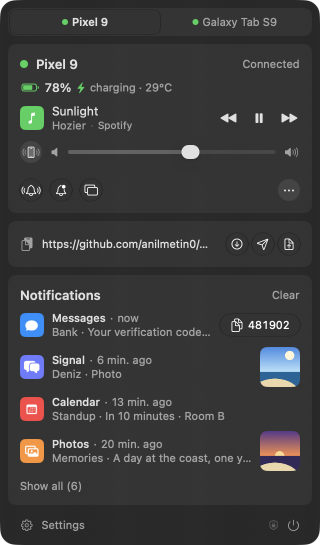
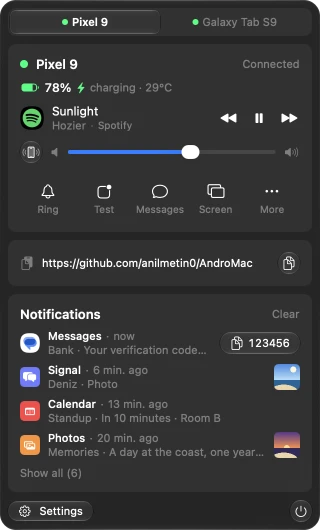
Show the current menu bar panel in the hero and the share image

diff --git a/tr/index.html b/tr/index.html
@@ -14,7 +14,7 @@
   <meta property="og:title" content="AndroMac: Android bildirimleri, SMS ve dosyalar Mac'te">
   <meta property="og:description" content="Android telefonunun bildirimleri, SMS'leri, panosu, dosyaları, aramaları ve ekranı Wi-Fi üzerinden Mac'inde. Ücretsiz ve açık kaynak.">
   <meta property="og:url" content="https://anilmetin0.github.io/AndroMac/tr/">
-  <meta property="og:image" content="https://anilmetin0.github.io/AndroMac/images/og.png?v=2">
+  <meta property="og:image" content="https://anilmetin0.github.io/AndroMac/images/og.png?v=3">
   <meta property="og:image:width" content="1200">
   <meta property="og:image:height" content="630">
   <meta property="og:image:alt" content="Mac'te AndroMac menü çubuğu paneli, yanında telefondaki AndroMac uygulaması.">
@@ -27,12 +27,12 @@
   <link rel="icon" href="../images/icon.png" sizes="256x256" type="image/png">
   <link rel="apple-touch-icon" href="../images/apple-touch-icon.png">
   <link rel="preload" href="../fonts/schibsted-latin.woff2" as="font" type="font/woff2" crossorigin>
-  <link rel="preload" href="../images/macos-panel-640.webp?v=3" as="image" type="image/webp" imagesrcset="../images/macos-panel-320.webp?v=3 320w, ../images/macos-panel-640.webp?v=3 640w" imagesizes="(max-width: 600px) 46vw, 320px" fetchpriority="high">
+  <link rel="preload" href="../images/macos-panel-640.webp?v=4" as="image" type="image/webp" imagesrcset="../images/macos-panel-320.webp?v=4 320w, ../images/macos-panel-640.webp?v=4 640w" imagesizes="(max-width: 600px) 46vw, 320px" fetchpriority="high">
   <link rel="stylesheet" href="../site.css">
   <script>try{const t=localStorage.getItem("theme");document.documentElement.dataset.theme=t==="dark"||t==="light"?t:matchMedia("(prefers-color-scheme: dark)").matches?"dark":"light"}catch{}</script>
   <script>if("IntersectionObserver"in window&&!matchMedia("(prefers-reduced-motion: reduce)").matches){const r=document.documentElement;r.classList.add("rv");addEventListener("load",()=>{if(!r.dataset.revealReady)r.classList.remove("rv")})}</script>
   <script src="../site.js" defer></script>
-  <script type="application/ld+json">{"@context": "https://schema.org", "@type": "SoftwareApplication", "name": "AndroMac", "url": "https://anilmetin0.github.io/AndroMac/tr/", "description": "Android bildirimlerini, SMS'leri, panoyu, dosyaları, aramaları ve ekranı Wi-Fi üzerinden Mac'e getiren ücretsiz, açık kaynak uygulama. Hesap ve bulut yok.", "applicationCategory": "UtilitiesApplication", "operatingSystem": "macOS 14 or later, Android 10 or later", "softwareVersion": "1.6.0", "license": "https://opensource.org/licenses/MIT", "isAccessibleForFree": true, "offers": {"@type": "Offer", "price": "0", "priceCurrency": "USD"}, "downloadUrl": "https://github.com/anilmetin0/AndroMac/releases/latest", "codeRepository": "https://github.com/anilmetin0/AndroMac", "inLanguage": "tr", "image": "https://anilmetin0.github.io/AndroMac/images/og.png?v=2", "author": {"@type": "Person", "name": "anilmetin0", "url": "https://github.com/anilmetin0"}}</script>
+  <script type="application/ld+json">{"@context": "https://schema.org", "@type": "SoftwareApplication", "name": "AndroMac", "url": "https://anilmetin0.github.io/AndroMac/tr/", "description": "Android bildirimlerini, SMS'leri, panoyu, dosyaları, aramaları ve ekranı Wi-Fi üzerinden Mac'e getiren ücretsiz, açık kaynak uygulama. Hesap ve bulut yok.", "applicationCategory": "UtilitiesApplication", "operatingSystem": "macOS 14 or later, Android 10 or later", "softwareVersion": "1.6.0", "license": "https://opensource.org/licenses/MIT", "isAccessibleForFree": true, "offers": {"@type": "Offer", "price": "0", "priceCurrency": "USD"}, "downloadUrl": "https://github.com/anilmetin0/AndroMac/releases/latest", "codeRepository": "https://github.com/anilmetin0/AndroMac", "inLanguage": "tr", "image": "https://anilmetin0.github.io/AndroMac/images/og.png?v=3", "author": {"@type": "Person", "name": "anilmetin0", "url": "https://github.com/anilmetin0"}}</script>
   <script type="application/ld+json">{"@context": "https://schema.org", "@type": "FAQPage", "inLanguage": "tr", "mainEntity": [{"@type": "Question", "name": "AndroMac ücretsiz mi?", "acceptedAnswer": {"@type": "Answer", "text": "Evet. İki uygulama da MIT lisansıyla ücretsiz ve açık kaynak; hesap, reklam ya da bulut hizmeti yok. Telefon ile Mac, Wi-Fi ağında doğrudan birbirleriyle konuşur."}}, {"@type": "Question", "name": "Nasıl kurarım?", "acceptedAnswer": {"@type": "Answer", "text": "Mac'te dört Homebrew satırını Terminal'e yapıştır. Homebrew yoksa DMG'yi aç, AndroMac'i Uygulamalar klasörüne sürükle ve xattr satırını çalıştır. Telefonda APK'yı indir, Android sorarsa tarayıcıya kurulum izni ver. Sonra iki cihazda da AndroMac'i açıp eşleştir."}}, {"@type": "Question", "name": "macOS, AndroMac hasarlı ya da açılamıyor diyor", "acceptedAnswer": {"@type": "Answer", "text": "Uygulama kendi sertifikasıyla imzalı ama Apple'ın noter onayından geçmedi, bu yüzden macOS ilk açılışı engeller. Terminal'de bir kez şunu çalıştır: xattr -dr com.apple.quarantine /Applications/AndroMac.app Ya da uygulamayı açmayı dene, macOS engelledikten sonra Sistem Ayarları → Gizlilik ve Güvenlik'te Yine de Aç'a bas."}}, {"@type": "Question", "name": "Güncellemeler nasıl geliyor?", "acceptedAnswer": {"@type": "Answer", "text": "İki uygulama da günde bir kez yeni sürüm var mı diye bakar ve bulursa kurabilir. İki tarafta da Ayarlar → Güncellemeler'de denetimi kapatma, otomatik kurulum ve Nightly sürümler seçenekleri var. Mac uygulamasını Homebrew ile kurduysan brew upgrade --cask andromac komutu da yeni sürüme geçirir."}}, {"@type": "Question", "name": "Ekran yansıtma için ne gerekiyor?", "acceptedAnswer": {"@type": "Answer", "text": "Telefonda Kablosuz hata ayıklama açık olmalı. Geliştirici seçeneklerini açmak için Derleme numarasına yedi kez dokun, sonra Kablosuz hata ayıklamayı aç. USB hata ayıklama açıksa USB kablosu da iş görür. İlk seferde Mac panelindeki yansıtma düğmesine bas, telefondaki Cihazı eşleme koduyla eşle ekranında çıkan kodu gir. İşin bitince Kablosuz hata ayıklamayı kapat."}}, {"@type": "Question", "name": "AndroMac'i nasıl kaldırırım?", "acceptedAnswer": {"@type": "Answer", "text": "Mac'te brew uninstall --cask andromac komutunu çalıştır. DMG'den kurduysan uygulamayı Çöp Sepeti'ne sürükle. Telefonda da diğer uygulamalar gibi kaldır."}}]}</script>
 </head>
 <body>
@@ -66,8 +66,8 @@
       </div>
       <div class="stage">
         <picture>
-          <source type="image/webp" srcset="../images/macos-panel-320.webp?v=3 320w, ../images/macos-panel-640.webp?v=3 640w" sizes="(max-width: 600px) 46vw, 320px">
-          <img class="panel" src="../images/macos-panel.png" width="640" height="1090" fetchpriority="high" alt="Mac'te AndroMac menü çubuğu paneli: yüzde 78 dolu ve şarj olan bir Pixel 9, çalan bir şarkı, pano ve kopyalama düğmeli bir doğrulama kodu dahil son telefon bildirimleri.">
+          <source type="image/webp" srcset="../images/macos-panel-320.webp?v=4 320w, ../images/macos-panel-640.webp?v=4 640w" sizes="(max-width: 600px) 46vw, 320px">
+          <img class="panel" src="../images/macos-panel.png" width="640" height="1060" fetchpriority="high" alt="Mac'te AndroMac menü çubuğu paneli: yüzde 78 dolu ve şarj olan bir Pixel 9, çalan bir şarkı, pano ve kopyalama düğmeli bir doğrulama kodu dahil son telefon bildirimleri.">
         </picture>
         <picture>
           <source type="image/webp" srcset="../images/android-home-270.webp?v=3 270w, ../images/android-home-540.webp?v=3 540w, ../images/android-home-1080.webp?v=3 1080w" sizes="(max-width: 600px) 36vw, 250px">
@@ -75,7 +75,7 @@
         </picture>
         <div class="banner" aria-hidden="true">
           <span class="app"><svg viewBox="0 0 24 24" fill="#fff"><path d="M12 4C6.5 4 2 7.6 2 12c0 2.2 1.1 4.2 3 5.6L4 21l4.2-2.1c1.2.4 2.5.6 3.8.6 5.5 0 10-3.6 10-8S17.5 4 12 4z"/></svg></span>
-          <span><span class="meta"><b>Mesajlar</b><span>şimdi</span></span><b>Banka</b><br>Doğrulama kodunuz 481902</span>
+          <span><span class="meta"><b>Mesajlar</b><span>şimdi</span></span><b>Banka</b><br>Doğrulama kodunuz 123456</span>
           <span class="code">Kodu kopyala</span>
         </div>
       </div>

diff --git a/index.html b/index.html
@@ -15,7 +15,7 @@
   <meta property="og:title" content="AndroMac: Android notifications, SMS and files on your Mac">
   <meta property="og:description" content="Notifications, SMS, clipboard, files, calls and screen mirroring from your Android phone, on your Mac over Wi-Fi. Free and open source.">
   <meta property="og:url" content="https://anilmetin0.github.io/AndroMac/">
-  <meta property="og:image" content="https://anilmetin0.github.io/AndroMac/images/og.png?v=2">
+  <meta property="og:image" content="https://anilmetin0.github.io/AndroMac/images/og.png?v=3">
   <meta property="og:image:width" content="1200">
   <meta property="og:image:height" content="630">
   <meta property="og:image:alt" content="The AndroMac menu-bar panel on a Mac next to the AndroMac app on an Android phone.">
@@ -28,12 +28,12 @@
   <link rel="icon" href="images/icon.png" sizes="256x256" type="image/png">
   <link rel="apple-touch-icon" href="images/apple-touch-icon.png">
   <link rel="preload" href="fonts/schibsted-latin.woff2" as="font" type="font/woff2" crossorigin>
-  <link rel="preload" href="images/macos-panel-640.webp?v=3" as="image" type="image/webp" imagesrcset="images/macos-panel-320.webp?v=3 320w, images/macos-panel-640.webp?v=3 640w" imagesizes="(max-width: 600px) 46vw, 320px" fetchpriority="high">
+  <link rel="preload" href="images/macos-panel-640.webp?v=4" as="image" type="image/webp" imagesrcset="images/macos-panel-320.webp?v=4 320w, images/macos-panel-640.webp?v=4 640w" imagesizes="(max-width: 600px) 46vw, 320px" fetchpriority="high">
   <link rel="stylesheet" href="site.css">
   <script>try{const t=localStorage.getItem("theme");document.documentElement.dataset.theme=t==="dark"||t==="light"?t:matchMedia("(prefers-color-scheme: dark)").matches?"dark":"light"}catch{}</script>
   <script>if("IntersectionObserver"in window&&!matchMedia("(prefers-reduced-motion: reduce)").matches){const r=document.documentElement;r.classList.add("rv");addEventListener("load",()=>{if(!r.dataset.revealReady)r.classList.remove("rv")})}</script>
   <script src="site.js" defer></script>
-  <script type="application/ld+json">{"@context": "https://schema.org", "@type": "SoftwareApplication", "name": "AndroMac", "url": "https://anilmetin0.github.io/AndroMac/", "description": "Free, open-source app that brings your Android phone's notifications, SMS, clipboard, files, calls and screen to your Mac over Wi-Fi. No account, no cloud.", "applicationCategory": "UtilitiesApplication", "operatingSystem": "macOS 14 or later, Android 10 or later", "softwareVersion": "1.6.0", "license": "https://opensource.org/licenses/MIT", "isAccessibleForFree": true, "offers": {"@type": "Offer", "price": "0", "priceCurrency": "USD"}, "downloadUrl": "https://github.com/anilmetin0/AndroMac/releases/latest", "codeRepository": "https://github.com/anilmetin0/AndroMac", "inLanguage": "en", "image": "https://anilmetin0.github.io/AndroMac/images/og.png?v=2", "author": {"@type": "Person", "name": "anilmetin0", "url": "https://github.com/anilmetin0"}}</script>
+  <script type="application/ld+json">{"@context": "https://schema.org", "@type": "SoftwareApplication", "name": "AndroMac", "url": "https://anilmetin0.github.io/AndroMac/", "description": "Free, open-source app that brings your Android phone's notifications, SMS, clipboard, files, calls and screen to your Mac over Wi-Fi. No account, no cloud.", "applicationCategory": "UtilitiesApplication", "operatingSystem": "macOS 14 or later, Android 10 or later", "softwareVersion": "1.6.0", "license": "https://opensource.org/licenses/MIT", "isAccessibleForFree": true, "offers": {"@type": "Offer", "price": "0", "priceCurrency": "USD"}, "downloadUrl": "https://github.com/anilmetin0/AndroMac/releases/latest", "codeRepository": "https://github.com/anilmetin0/AndroMac", "inLanguage": "en", "image": "https://anilmetin0.github.io/AndroMac/images/og.png?v=3", "author": {"@type": "Person", "name": "anilmetin0", "url": "https://github.com/anilmetin0"}}</script>
   <script type="application/ld+json">{"@context": "https://schema.org", "@type": "FAQPage", "inLanguage": "en", "mainEntity": [{"@type": "Question", "name": "Is AndroMac free?", "acceptedAnswer": {"@type": "Answer", "text": "Yes. Both apps are free and open source under the MIT License, with no account, no ads and no cloud service. The phone and the Mac talk to each other directly on your Wi-Fi."}}, {"@type": "Question", "name": "How do I install it?", "acceptedAnswer": {"@type": "Answer", "text": "On the Mac, paste the four Homebrew lines into Terminal. Without Homebrew, open the DMG, drag AndroMac to Applications and run the xattr line. On the phone, download the APK and allow installs from your browser when Android asks. Then open AndroMac on both and pair them."}}, {"@type": "Question", "name": "macOS says AndroMac is damaged or can't be opened", "acceptedAnswer": {"@type": "Answer", "text": "The app is signed with its own certificate and is not notarized, so macOS blocks the first launch. Run this once in Terminal: xattr -dr com.apple.quarantine /Applications/AndroMac.app Or open the app, let macOS refuse it, then press Open Anyway in System Settings → Privacy & Security."}}, {"@type": "Question", "name": "How do updates work?", "acceptedAnswer": {"@type": "Answer", "text": "Both apps check once a day and can install what they find. Settings → Updates on either side has the check switch, Install updates automatically and Nightly builds. If Homebrew installed the Mac app, brew upgrade --cask andromac also moves it to the new version."}}, {"@type": "Question", "name": "What does screen mirroring need?", "acceptedAnswer": {"@type": "Answer", "text": "Wireless debugging on the phone. Tap Build number seven times to unlock Developer options, then turn on Wireless debugging. A USB cable with USB debugging on works too. The first time, press the mirror button in the Mac panel and type the code from Pair device with pairing code on the phone. Turn Wireless debugging off when you are done."}}, {"@type": "Question", "name": "How do I remove AndroMac?", "acceptedAnswer": {"@type": "Answer", "text": "On the Mac, run brew uninstall --cask andromac, or drag the app to the Trash if you installed it from the DMG. On the phone, uninstall it like any other app."}}]}</script>
 </head>
 <body>
@@ -67,8 +67,8 @@
       </div>
       <div class="stage">
         <picture>
-          <source type="image/webp" srcset="images/macos-panel-320.webp?v=3 320w, images/macos-panel-640.webp?v=3 640w" sizes="(max-width: 600px) 46vw, 320px">
-          <img class="panel" src="images/macos-panel.png" width="640" height="1090" fetchpriority="high" alt="AndroMac menu-bar panel on the Mac: a Pixel 9 at 78% and charging, a song playing, the clipboard, and recent phone notifications including a verification code with a copy button.">
+          <source type="image/webp" srcset="images/macos-panel-320.webp?v=4 320w, images/macos-panel-640.webp?v=4 640w" sizes="(max-width: 600px) 46vw, 320px">
+          <img class="panel" src="images/macos-panel.png" width="640" height="1060" fetchpriority="high" alt="AndroMac menu-bar panel on the Mac: a Pixel 9 at 78% and charging, a song playing, the clipboard, and recent phone notifications including a verification code with a copy button.">
         </picture>
         <picture>
           <source type="image/webp" srcset="images/android-home-270.webp?v=3 270w, images/android-home-540.webp?v=3 540w, images/android-home-1080.webp?v=3 1080w" sizes="(max-width: 600px) 36vw, 250px">
@@ -76,7 +76,7 @@
         </picture>
         <div class="banner" aria-hidden="true">
           <span class="app"><svg viewBox="0 0 24 24" fill="#fff"><path d="M12 4C6.5 4 2 7.6 2 12c0 2.2 1.1 4.2 3 5.6L4 21l4.2-2.1c1.2.4 2.5.6 3.8.6 5.5 0 10-3.6 10-8S17.5 4 12 4z"/></svg></span>
-          <span><span class="meta"><b>Messages</b><span>now</span></span><b>Bank</b><br>Your verification code is 481902</span>
+          <span><span class="meta"><b>Messages</b><span>now</span></span><b>Bank</b><br>Your verification code is 123456</span>
           <span class="code">Copy code</span>
         </div>
       </div>
